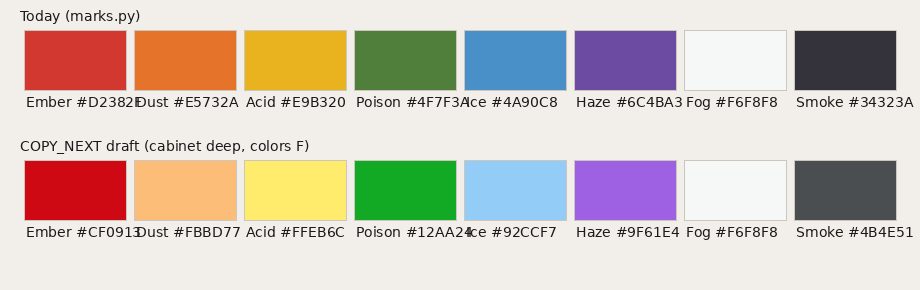
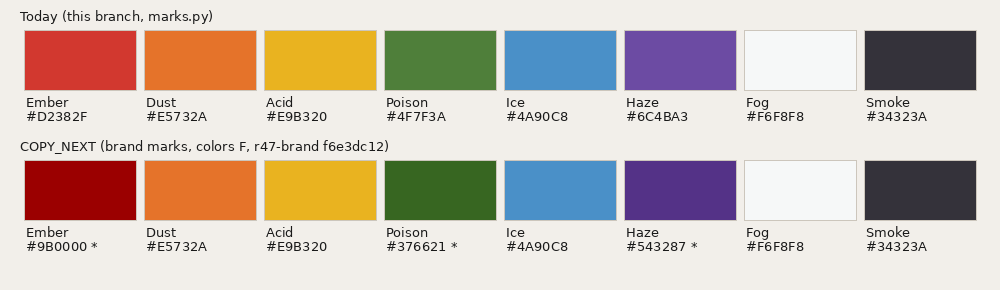
barkhorn site: COPY_NEXT: the swatches stay the brand marks (colors F from r47-brand f6e3dc12)
Claude-Session: https://claude.ai/code/session_01BAaPTnZ3md8RoquoqYWJkd

diff --git a/spinoffs/barkhorn/web.py b/spinoffs/barkhorn/web.py
@@ -238,12 +238,11 @@ def tagline_css(line):
 
 # the swatches for colors F (the coordinator, 2026-11-01: override here, under the flag; marks.py, the brand's source,
 # stays as it is): key -> hex, from the speaker lane's TINTS.md (c38f8ee6) and barkhorn-cloud.json once its Poison and
-# Haze land. Empty keeps today's swatches. The speaker lane's cabinet "deep" colors (white light after 25 mm of the
-# cabinet's acrylic, sRGB; r33-speaker-horn 55c12c58, asset/tints-trucast.json and barkhorn-cloud.json): Ember, Dust, Acid,
-# Ice and Smoke stock; Poison and Haze the lighter custom batches (32.3 % and 25.8 % through 20 mm). Fog keeps today's
-# swatch: its cabinet is clear (#FFFFFF), which would vanish on the page's ground.
-MARK_NEXT = {'red': '#CF0913', 'orange': '#FBBD77', 'amber': '#FFEB6C', 'green': '#12AA24', 'blue': '#92CCF7',
-             'violet': '#9F61E4', 'black': '#4B4E51'}
+# Haze land. Empty keeps today's swatches. The swatch stays the brand mark (the coordinator, 2026-11-01): these are the
+# brand lane's marks for colors F (marks.py SPEAKERS on r47-brand f6e3dc12): Poison and Haze derived from the lighter
+# custom batches, and Ember as the brand lane set it this morning for the stock tints (this branch's marks.py predates
+# that). The other five marks are unchanged.
+MARK_NEXT = {'red': '#9B0000', 'green': '#376621', 'violet': '#543287'}
 
 
 def tagline():
